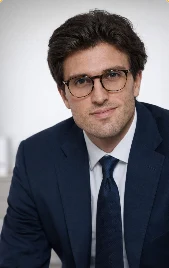
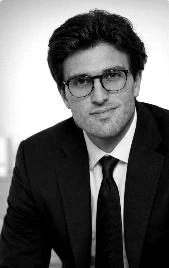
Chi siamo: foto della squadra in bianco e nero, iniziali su grigio neutro
Claude-Session: https://claude.ai/code/session_01JwNb5corzdDjr4mz8K3UPK

diff --git a/legacy/site/chi-siamo/index.html b/legacy/site/chi-siamo/index.html
@@ -76,8 +76,8 @@ p{margin:0}
 .socio .ft{aspect-ratio:4/5;background:#EEF2F7;position:relative}
 .socio .ft img{width:100%;height:100%;object-fit:cover}
 .socio .ft::after{content:"";position:absolute;left:0;right:0;bottom:0;height:4px;background:var(--grad)}
-.sigla{width:100%;height:100%;display:grid;place-items:center;background:linear-gradient(135deg,#E6F4FA,#E8F5EC)}
-.sigla span{width:104px;height:104px;border-radius:50%;display:grid;place-items:center;background:#fff;font-family:var(--display);font-weight:600;font-size:2.1rem;letter-spacing:-.02em;color:var(--blu);box-shadow:0 10px 30px -14px rgba(16,32,74,.35)}
+.sigla{width:100%;height:100%;display:grid;place-items:center;background:linear-gradient(160deg,#EDEFF2,#D9DDE3)}
+.sigla span{width:104px;height:104px;border-radius:50%;display:grid;place-items:center;background:#fff;font-family:var(--display);font-weight:600;font-size:2.1rem;letter-spacing:-.02em;color:var(--ink);box-shadow:0 10px 30px -14px rgba(16,32,74,.35)}
 .socio .tx{padding:18px 18px 20px}
 .socio .ruolo{font-size:.76rem;font-weight:700;letter-spacing:.12em;text-transform:uppercase;color:var(--verde)}
 .socio h3{font-size:1.18rem;margin-top:6px}
@@ -157,11 +157,11 @@ p{margin:0}
       <p class="intro">Una squadra piccola che unisce consulenza strategica, mercato immobiliare, vendita e tecnologia.</p>
       <div class="team">
         <article class="socio">
-          <div class="ft"><img src="/img/team/luca.webp" alt="Luca Bazzanella" width="169" height="268" loading="lazy"></div>
+          <div class="ft"><img src="/img/team/luca.webp?v=2" alt="Luca Bazzanella" width="169" height="268" loading="lazy"></div>
           <div class="tx"><p class="ruolo">CEO</p><h3>Luca Bazzanella</h3><p>Manager esperto di consulenza strategica, finanza e M&amp;A. Guida la strategia e lo sviluppo di EdilMen.</p></div>
         </article>
         <article class="socio">
-          <div class="ft"><img src="/img/team/vittorio.webp" alt="Vittorio Mecenero" width="169" height="268" loading="lazy"></div>
+          <div class="ft"><img src="/img/team/vittorio.webp?v=2" alt="Vittorio Mecenero" width="169" height="268" loading="lazy"></div>
           <div class="tx"><p class="ruolo">Co-founder</p><h3>Vittorio Mecenero</h3><p>Porta in EdilMen l'esperienza del mercato immobiliare e il rapporto con chi compra, vende e investe.</p></div>
         </article>
         <article class="socio">
